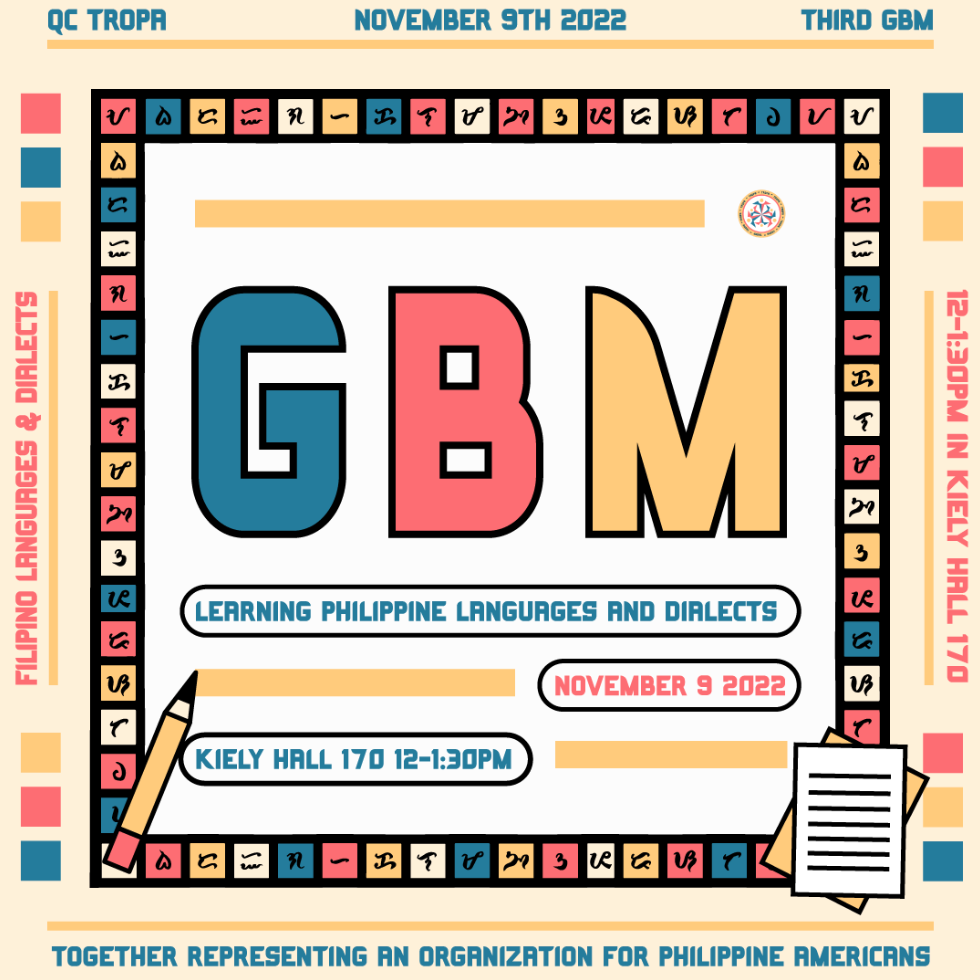
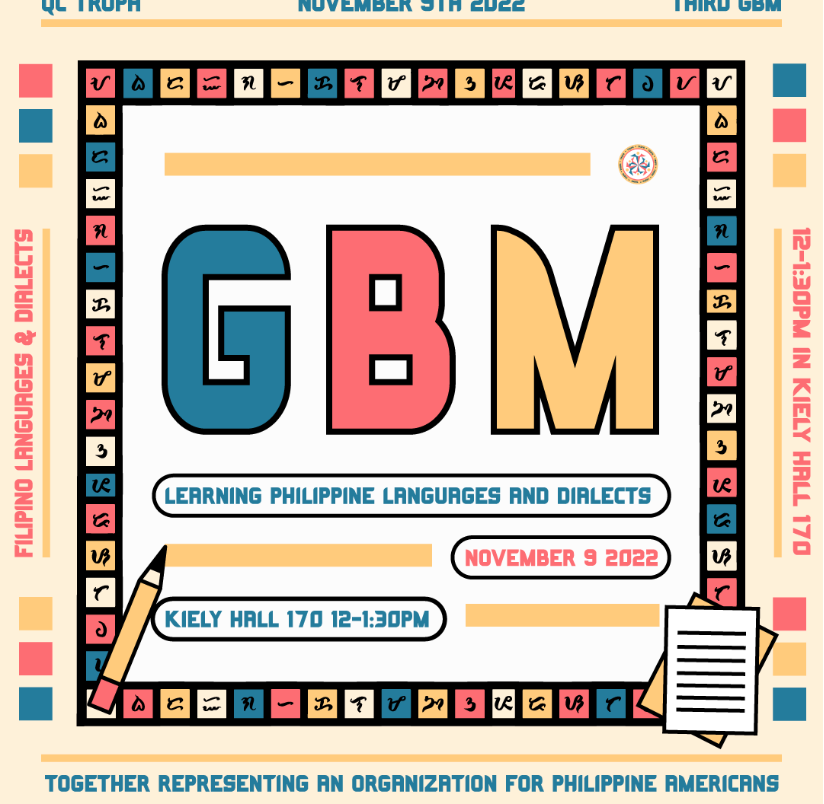
Minor change in image size for event1-4

diff --git a/index.html b/index.html
@@ -292,6 +292,7 @@
     <!-- eboard section -->
     <section class="eboard">
       <div class="container-xxl">
+        <h2>Meet Our Team!</h2>
         <div>
           Lorem ipsum dolor sit amet consectetur adipisicing elit. Debitis,
           autem. Magnam voluptatum molestiae odit inventore consectetur, quae,

diff --git a/styles/index.css b/styles/index.css
@@ -188,12 +188,12 @@
 }
 
 .eventWave .shape-fill {
-  fill: #db8ed6;
+  fill: #dea5a4;
 }
 
 /* eboard */
 .eboard {
-  background-color: #db8ed6;
+  background-color: #dea5a4;
 }
 
 /* Footer */
